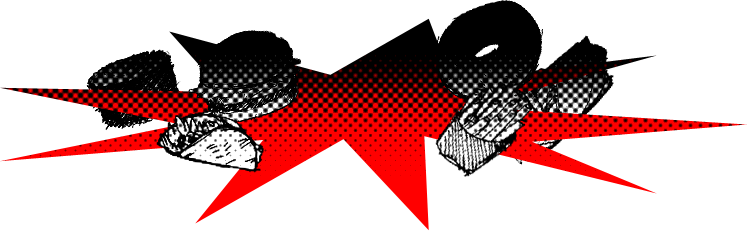
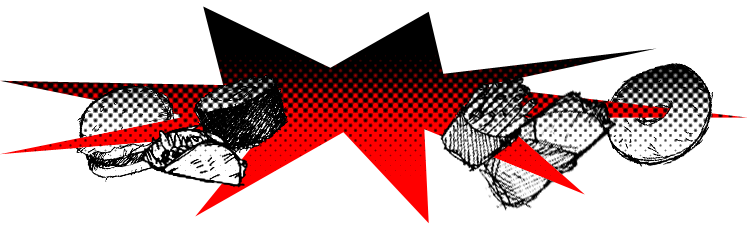
Added food 'spolsion.

diff --git a/app/assets/stylesheets/application.css b/app/assets/stylesheets/application.css
@@ -196,7 +196,7 @@ a.button, button, input[type=submit] {
 /* line 1, sass/modules/_header.scss */
 #header {
   background: transparent url(../../assets/foodsplosion.png) center center no-repeat;
-  background-size: 500px auto;
+  background-size: 700px auto;
   margin: -55px 0 -25px;
 }
 /* line 7, sass/modules/_header.scss */

diff --git a/app/assets/stylesheets/sass/modules/_header.scss b/app/assets/stylesheets/sass/modules/_header.scss
@@ -1,6 +1,6 @@
 #header 	{
 	background: transparent url(../../assets/foodsplosion.png) center center no-repeat;
-	background-size: 500px auto;
+	background-size: 700px auto;
 	margin: -55px 0 -25px;
 
 	a 	{
